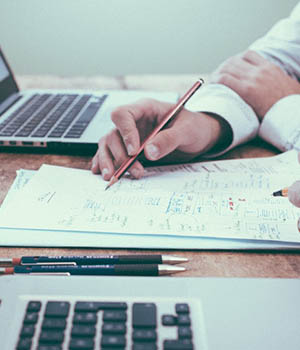
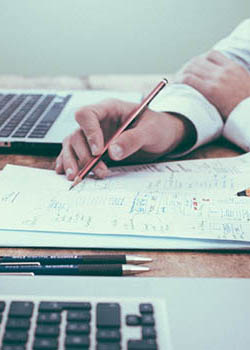
resized images and added content to home page

diff --git a/templates/home.html b/templates/home.html
@@ -1,19 +1,22 @@
 <div header></div>
 
-<main class="container page-content z-depth-5 white">
+<main class="container page-content home-page z-depth-5 white">
   <section>
     <div class="row">
       <div class="col s12 m5 l4 center-s">
-        <img class="responsive-img filter" src="img/img1.jpg" alt="Taking notes on paper">
+        <img class="responsive-img filter hide-on-small-only" src="img/img1.jpg" alt="Taking notes on paper">
+        <img class="responsive-img filter hide-on-med-and-up" src="img/img1_b.jpg" alt="Taking notes on paper">
       </div>
       <div class="col s12 m7 l8 center-s">
-        <h5 class="left-border-m">Section <br>1</h5>
-        <p>Lorem ipsum dolor sit amet, consectetur adipiscing elit. Aliquam et neque in nibh tincidunt tempor. Pellentesque
-          a gravida libero, id efficitur neque. In id tellus sodales, vestibulum ipsum quis, vulputate turpis. Sed sed quam
-          augue. Vestibulum sed massa nulla. Nunc sodales pellentesque turpis, eu ullamcorper mi sodales sed. Aenean rutrum
-          felis vel elit malesuada imperdiet. Mauris lacinia lacus at turpis dapibus, quis sollicitudin odio egestas. Pellentesque
-          feugiat varius sem, quis porta urna porttitor ut. Phasellus imperdiet erat orci, et volutpat massa finibus ac.
-          Praesent elementum non nisl et elementum.</p>
+        <h5 class="left-border-m">About<br>ExamOrange</h5>
+        <p>Thousands of companies around the world use our simple yet powerful examination and assesment platform for their testing needs:</p>
+        <ul class="icon">
+          <li><span class="bold-text deep-orange-text text-lighten-1">Employee Training &amp; Testing</span></li>
+          <li><span class="bold-text deep-orange-text text-lighten-1">Job candidate skill assesment</span></li>
+          <li><span class="bold-text deep-orange-text text-lighten-1">Knowledge-gap analysis</span></li>
+          <li><span class="bold-text deep-orange-text text-lighten-1">Certification Testing</span></li>
+          <li><span class="bold-text deep-orange-text text-lighten-1">Digital classroom integration, and more!</span></li>
+        </ul>
         <div class="center">
           <a href="exams" class="waves-effect waves-light btn-large">Take a sample exam</a>
         </div>
@@ -24,16 +27,22 @@
   <section>
     <div class="row">
       <div class="col s12 m5 push-m7 l4 push-l8 center-s">
-        <img class="responsive-img filter" src="img/img4.jpg" alt="man in graduation uniform">
+        <img class="responsive-img filter hide-on-small-only" src="img/img6.jpg" alt="man in graduation uniform">
+        <img class="responsive-img filter hide-on-med-and-up" src="img/img6_b.jpg" alt="man in graduation uniform">
       </div>
       <div class="col s12 m7 pull-m5 l8 pull-l4 center-s">
-        <h5 class="left-border-m">For Exam <br>Takers</h5>
-        <p>Lorem ipsum dolor sit amet, consectetur adipiscing elit. Aliquam et neque in nibh tincidunt tempor. Pellentesque
-          a gravida libero, id efficitur neque. In id tellus sodales, vestibulum ipsum quis, vulputate turpis. Sed sed
-          quam augue. Vestibulum sed massa nulla. Nunc sodales pellentesque turpis, eu ullamcorper mi sodales sed. Aenean
-          rutrum felis vel elit malesuada imperdiet. Mauris lacinia lacus at turpis dapibus, quis sollicitudin odio egestas.
-          Pellentesque feugiat varius sem, quis porta urna porttitor ut. Phasellus imperdiet erat orci, et volutpat massa
-          finibus ac. Praesent elementum non nisl et elementum.</p>
+        <h5 class="left-border-m">For Exam<br>Providers</h5>
+        <p>Provide training for your employees, assesment for your classroom...Lorem ipsum dolor sit amet, consectetur adipiscing elit. Aliquam et neque in nibh tincidunt tempor. Pellentesque
+            a gravida libero. </p>
+        <ul class="icon">
+            <li><span class="bold-text deep-orange-text text-lighten-1">Create exams, tests, and quizzes</span> - include video and images.</li>
+            <li><span class="bold-text deep-orange-text text-lighten-1">Exam templates</span> - hundreds to choose from.</li>
+            <li><span class="bold-text deep-orange-text text-lighten-1">Intuitive GUI</span> - drag&amp;drop and custom functionality.</li>
+            <li><span class="bold-text deep-orange-text text-lighten-1">Use your own branding and colors.</span></li>
+            <li><span class="bold-text deep-orange-text text-lighten-1">Issue certificates</span> - by post or digial.</li>
+            <li><span class="bold-text deep-orange-text text-lighten-1">Extensive analytics</span> - measure progress and results.</li>
+            <li><span class="bold-text deep-orange-text text-lighten-1">Automatic Grading</span> - save time!</li>
+          </ul>
       </div>
     </div>
   </section>
@@ -41,16 +50,19 @@
   <section>
     <div class="row">
       <div class="col s12 m5 l4 center-s">
-        <img class="responsive-img filter" src="img/img5.jpg" alt="woman in graduation uniform with champagne">
+        <img class="responsive-img filter hide-on-small-only" src="img/img5.jpg" alt="woman in graduation uniform with champagne">
+        <img class="responsive-img filter hide-on-med-and-up" src="img/img5_b.jpg" alt="woman in graduation uniform with champagne">
       </div>
       <div class="col s12 m7 l8 center-s">
-        <h5 class="left-border-m">For Exam <br>Providers</h5>
+        <h5 class="left-border-m">For Exam<br>Takers</h5>
         <p>Lorem ipsum dolor sit amet, consectetur adipiscing elit. Aliquam et neque in nibh tincidunt tempor. Pellentesque
-          a gravida libero, id efficitur neque. In id tellus sodales, vestibulum ipsum quis, vulputate turpis. Sed sed
-          quam augue. Vestibulum sed massa nulla. Nunc sodales pellentesque turpis, eu ullamcorper mi sodales sed. Aenean
-          rutrum felis vel elit malesuada imperdiet. Mauris lacinia lacus at turpis dapibus, quis sollicitudin odio egestas.
-          Pellentesque feugiat varius sem, quis porta urna porttitor ut. Phasellus imperdiet erat orci, et volutpat massa
-          finibus ac. Praesent elementum non nisl et elementum.</p>
+          a gravida libero.</p>
+        <ul class="icon">
+          <li><span class="bold-text deep-orange-text text-lighten-1">Scorecards and reports</span> - know where to improve.</li>
+          <li><span class="bold-text deep-orange-text text-lighten-1">Easy to Use</span> - optimized for both mobile and desktop.</li>
+          <li><span class="bold-text deep-orange-text text-lighten-1">Share certificates with your potential employers.</span></li>
+          <li><span class="bold-text deep-orange-text text-lighten-1">Flexible</span> - take exams anywhere &amp; anytime.</li>
+        </ul>
       </div>
     </div>
   </section>

diff --git a/css/styles.css b/css/styles.css
@@ -219,11 +219,25 @@ ul.icon >li::before {
 }
 
 /* MAIN HEADER */
-
 .page-header h2 {
   font-size: 1.64rem;
   line-height: 110%;
   margin: .82rem 0 .656rem 0;
+}
+
+/* HOME PAGE */
+.home-page ul {
+  margin-left: 1rem;
+  text-align: left;
+}
+
+@media only screen and (min-width: 601px) {  /* MEDIUM */
+  .home-page ul {
+    margin-left: 0;
+  }
+  .home-page img.responsive-img {
+    width: 100%;
+  }
 }
 
 /* FORM */
